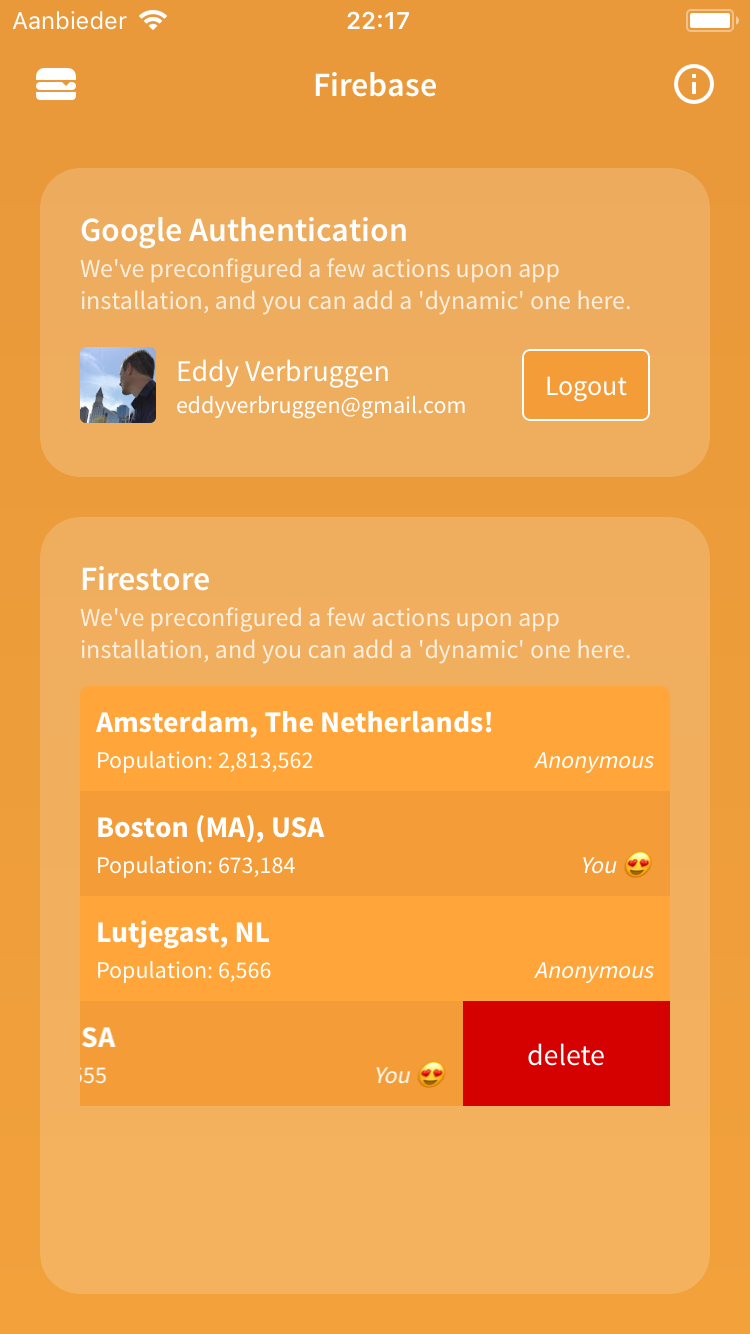
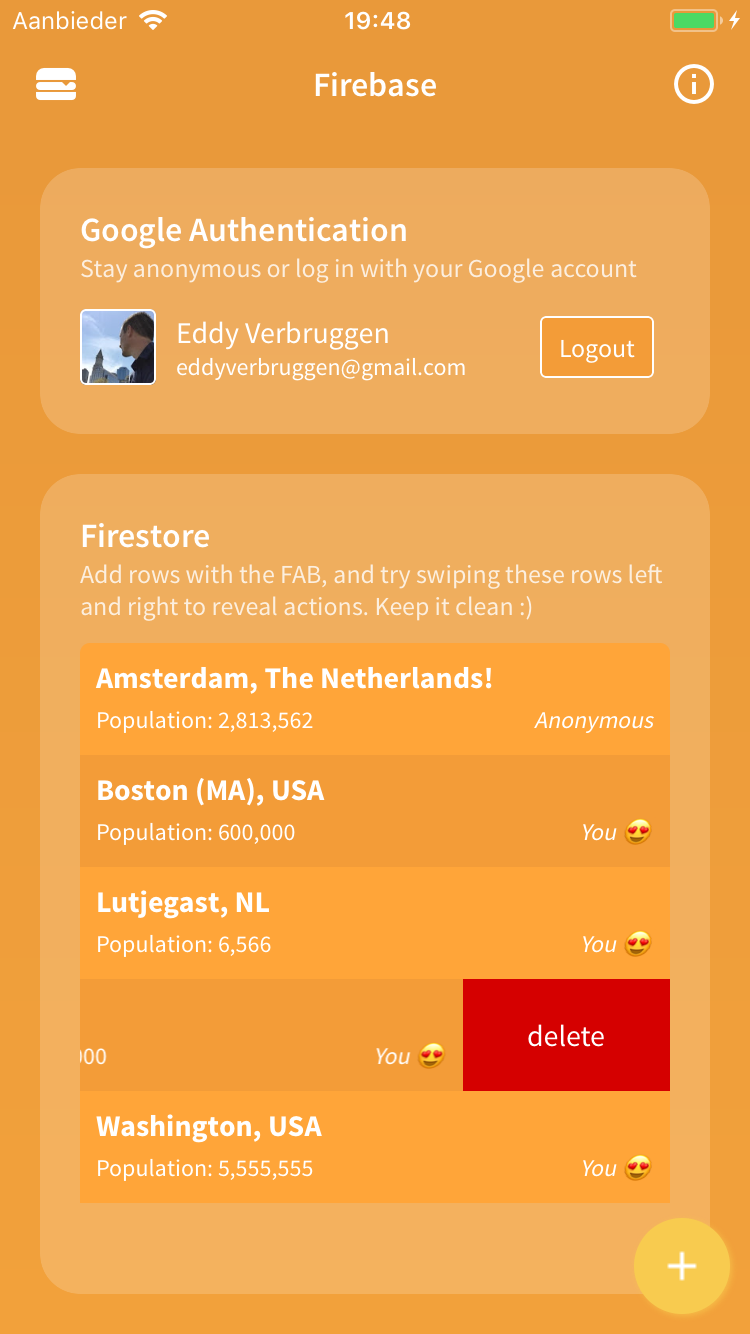
Added Firebase

diff --git a/app/firebase/firebase.component.ts b/app/firebase/firebase.component.ts
@@ -18,10 +18,9 @@ import { ListViewEventData } from "nativescript-ui-listview";
 import { Color } from "tns-core-modules/color";
 import * as appSettings from "tns-core-modules/application-settings";
 import { View } from "tns-core-modules/ui/core/view";
-import { layout } from "tns-core-modules/utils/utils";
+import { ad, layout } from "tns-core-modules/utils/utils";
 import { prompt, PromptResult } from "tns-core-modules/ui/dialogs";
 import { RadListViewComponent } from "nativescript-ui-listview/angular";
-import { Viewport as MapboxViewport } from "nativescript-mapbox";
 
 const firebase = require("nativescript-plugin-firebase/app");
 
@@ -171,14 +170,13 @@ export class FirebaseComponent extends AbstractMenuPageComponent implements OnIn
       cancelable: true
     }).then((result: PromptResult) => {
       if (result.result && result.text) {
-        console.log(">>>> result.result: " + (typeof result.result));
         let name = result.text.trim().length === 0 ? undefined : result.text.trim();
         this.citiesCollectionRef.add(
             {
               name: name,
               author: this.user ? this.user.email : "Anonymous"
             })
-            .then(() => console.log(`Created city '${name}'`))
+            .then(() => ad && ad.dismissSoftInput())
             .catch(err => console.log(`Create err: ${err}`));
       }
     });
@@ -244,11 +242,12 @@ export class FirebaseComponent extends AbstractMenuPageComponent implements OnIn
       }).then((result: PromptResult) => {
         if (result.result) {
           city.name = result.text.trim().length === 0 ? undefined : result.text.trim();
-          this.citiesCollectionRef.doc(city.id).update({
-            name: city.name,
-            author: this.user ? this.user.email : "Anonymous"
-          })
-              .then(() => console.log(`Update the city name to '${city.name}'`))
+          this.citiesCollectionRef.doc(city.id).update(
+              {
+                name: city.name,
+                author: this.user ? this.user.email : "Anonymous"
+              })
+              .then(() => ad && ad.dismissSoftInput())
               .catch(err => console.log(`Update err: ${err}`));
         }
       });
@@ -263,11 +262,12 @@ export class FirebaseComponent extends AbstractMenuPageComponent implements OnIn
       }).then((result: PromptResult) => {
         if (result.result) {
           city.population = +(result.text.trim().length === 0 ? undefined : result.text.trim());
-          this.citiesCollectionRef.doc(city.id).update({
-            population: city.population,
-            author: this.user ? this.user.email : "Anonymous"
-          })
-              .then(() => console.log(`Update the city population to '${city.population}'`))
+          this.citiesCollectionRef.doc(city.id).update(
+              {
+                population: city.population,
+                author: this.user ? this.user.email : "Anonymous"
+              })
+              .then(() => ad && ad.dismissSoftInput())
               .catch(err => console.log(`Update err: ${err}`));
         }
       });

diff --git a/app/firebase/firebase.component.html b/app/firebase/firebase.component.html
@@ -15,7 +15,7 @@
 
       <StackLayout [@scale-in]="'in'" row="0" class="transparent-area">
         <Label class="section-title" text="Google Authentication"></Label>
-        <Label class="section-subtitle" text="We've preconfigured a few actions upon app installation, and you can add a 'dynamic' one here." textWrap="true"></Label>
+        <Label class="section-subtitle" text="Stay anonymous or log in with your Google account" textWrap="true"></Label>
         <ActivityIndicator busy="true" width="32" height="32" class="m-8" *ngIf="loadingUser"></ActivityIndicator>
         <Button text="Login with Google" (tap)="loginWithGoogle()" class="button button-firebase m-t-12" *ngIf="!loadingUser && !user"></Button>
         <GridLayout columns="auto, *, auto" orientation="horizontal" class="m-t-8" *ngIf="user">
@@ -24,13 +24,13 @@
             <Label [text]="user.name"></Label>
             <Label [text]="user.email" class="user-email"></Label>
           </StackLayout>
-          <Button col="2" text="Logout" (tap)="logout()" class="button button-firebase" horizontalAlignment="right"></Button>
+          <Button col="2" text="Logout" (tap)="logout()" class="button button-firebase m-l-4" horizontalAlignment="right"></Button>
         </GridLayout>
       </StackLayout>
 
       <GridLayout rows="auto, auto, *" [@scale-in]="'in'" row="1" class="transparent-area m-t-20">
         <Label row="0" class="section-title" text="Firestore"></Label>
-        <Label row="1" class="section-subtitle" text="We've preconfigured a few actions upon app installation, and you can add a 'dynamic' one here." textWrap="true"></Label>
+        <Label row="1" class="section-subtitle" text="Add rows with the FAB, and try swiping these rows left and right to reveal actions. Keep it clean :)" textWrap="true"></Label>
 
         <RadListView #citiesListView row="2" [items]="cities" (itemLoading)="onItemLoading($event)" selectionBehavior="None" swipeActions="true" (itemSwipeProgressEnded)="onSwipeCellFinished($event)" (itemSwipeProgressStarted)="onSwipeCellStarted($event)" (itemSwipeProgressChanged)="onCellSwiping($event)" class="m-t-10" style="border-radius: 5; background-color: transparent">
 

diff --git a/app/app.component.html b/app/app.component.html
@@ -1,12 +1,12 @@
 <RadSideDrawer
-    [drawerContentSize]="isTablet ? 320 : 260"
+    [drawerContentSize]="isTablet ? 340 : 280"
     [transition]="isIOS ? 'SlideAlongTransition' : 'PushTransition'"
     (drawerOpening)="onDrawerOpening($event)"
     (drawerClosing)="onDrawerClosing($event)">
   <Gradient tkDrawerContent class="menu-contents-wrapper" direction="to bottom right" colors="#2da7fb, #227ebe">
     <GridLayout class="sideStackLayout" rows="auto, auto, auto, auto, auto, auto, auto, *">
 
-      <GridLayout row="0" rows="auto, auto" columns="50, *" class="sideOptions" [nsRouterLink]="['/feedback']" clearHistory="true" nsRouterLinkActive="active">
+      <GridLayout row="0" rows="auto, auto" columns="50, *" class="sideOptions menu-safearea-top" [nsRouterLink]="['/feedback']" clearHistory="true" nsRouterLinkActive="active">
         <Label class="mdi" [text]="'mdi-message-text' | fonticon"></Label>
         <Label col="1" class="item-title" text="Feedback"></Label>
         <Label row="1" col="1" class="plugin-names" text="Fancy Alert, CFAlert Dialog, Feedback, Snackbar, Local Notifications, Toast" textWrap="true"></Label>

diff --git a/app/app.component.ts b/app/app.component.ts
@@ -33,11 +33,13 @@ export class AppComponent implements OnInit, AfterViewInit {
     // A few fixes for RadSideDrawer and iPhone X (and other devices later as well, perhaps)
     if (isIOS && application.ios.window.safeAreaInsets && application.ios.window.safeAreaInsets.bottom > 0) {
       application.addCss(`
+          GridLayout.menu-safearea-top { margin-top: ${34 + application.ios.window.safeAreaInsets.top} }
           RadSideDrawer { margin-bottom: -${application.ios.window.safeAreaInsets.bottom} }
           .madeby-container Label.madeby-text { padding-bottom: ${2 * application.ios.window.safeAreaInsets.bottom} }
         `);
     } else {
       application.addCss(`
+          GridLayout.menu-safearea-top { margin-top: 34 }
           .madeby-container Label.madeby-text { padding-bottom: 14 }
         `);
     }

diff --git a/app/firebase/firebase-common.css b/app/firebase/firebase-common.css
@@ -8,10 +8,10 @@ ActionBar {
 
 button {
   background-color: #6494AA;
-  padding: 8 10;
-  margin: 8 10 8 0;
-  font-size: 14;
-  border-radius: 4;
+  padding: 6 8;
+  margin: 8 8 8 0;
+  font-size: 13;
+  border-radius: 3;
   border-width: 1;
   border-color: #fff;
 }
